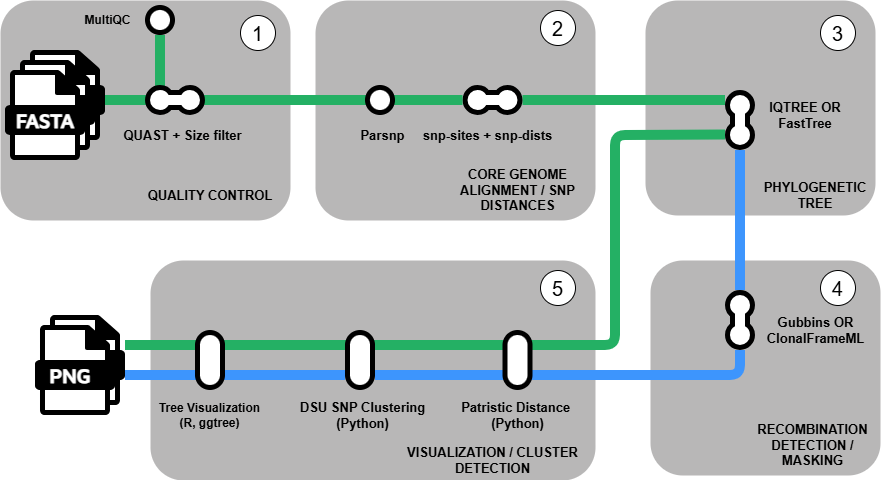
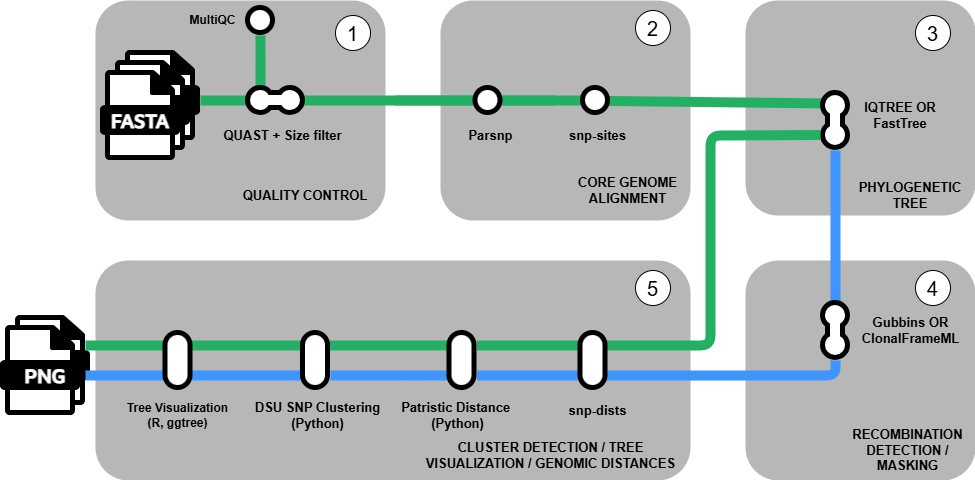
docs: updated README

diff --git a/README.md b/README.md
@@ -16,42 +16,47 @@
 
 ![Workflow Diagram](docs/img/metromap_workflow_diagram.png)
 
-**bacterial-genomics/assemblysnps** is a bioinformatics pipeline that ...
+**bacterial-genomics/assemblysnps** is a bioinformatics pipeline that generates a core genome alignment, genomic distances and a phlyogenetic tree, intended for bacterial outbreak surveillance.
 
-<!-- TODO nf-core:
-   Complete this sentence with a 2-3 sentence summary of what types of data the pipeline ingests, a brief overview of the
-   major pipeline sections and the types of output it produces. You're giving an overview to someone new
-   to nf-core here, in 15-20 seconds. For an example, see https://github.com/nf-core/rnaseq/blob/master/README.md#introduction
--->
+1. (Optional) QC FASTA assemblies with ([QUAST](https://quast.sourceforge.net/)) and reported with ([`MultiQC`](http://multiqc.info/)). This step can be skipped with `--skip_quast`.
 
-<!-- TODO nf-core: Include a figure that guides the user through the major workflow steps. Many nf-core
-     workflows use the "tube map" design for that. See https://nf-co.re/docs/guidelines/graphic_design/workflow_diagrams#examples for examples.   -->
-<!-- TODO nf-core: Fill in short bullet-pointed list of the default steps in the pipeline -->1. Read QC ([`FastQC`](https://www.bioinformatics.babraham.ac.uk/projects/fastqc/))2. Present QC for raw reads ([`MultiQC`](http://multiqc.info/))
+2. Core genome alignment with ([Parsnp](https://harvest.readthedocs.io/en/latest/content/parsnp.html)).
+
+3. Extract SNPs from core genome alignment with [snp-sites](https://sanger-pathogens.github.io/snp-sites/).
+
+4. Compute maximum likelihood tree with [IQTREE2](https://github.com/iqtree/iqtree2) or optionally [FastTree](https://github.com/morgannprice/fasttree) using the `--run_fasttree` parameter.
+
+5. (Optional) Detect and mask recombination loci with [Gubbins](https://nickjcroucher.github.io/gubbins/) or [ClonalFrameML](https://github.com/xavierdidelot/clonalframeml).
+
+6. Generate SNP distance matrices with [snp-dists]() and patristic distances from resulting trees with a [homebrew python script](bin/patristic_distance.py)
+
+7. Automatically annotate SNP clusters using a [homebrew script](bin/outbreak_detection.py) using the [Disjoint Set Union algorithm](https://en.wikipedia.org/wiki/Disjoint-set_data_structure) to iteratively aggregate genomes based on a SNP distance threshold, which may be set using the `--snp_threshold` parameter.
+
+8 Generate a phylogenetic tree graphic (`ggtree/tree.png`) using [ggtrree](https://github.com/YuLab-SMU/ggtree).
 
 ## Usage
 
+This pipeline was tested using Nextflow v25.10.4, and should be compatible with Nextflow v26.04.0 if the `NXF_SYNTAX_PARSER` environment variable is set to `v1`. **It has yet to adopt [strict syntax](https://docs.seqera.io/nextflow/strict-syntax)**.
+> `export NXF_SYNTAX_PARSER=v1`
+
 > [!NOTE]
 > If you are new to Nextflow and nf-core, please refer to [this page](https://nf-co.re/docs/usage/installation) on how to set-up Nextflow. Make sure to [test your setup](https://nf-co.re/docs/usage/introduction#how-to-run-a-pipeline) with `-profile test` before running the workflow on actual data.
-
-<!-- TODO nf-core: Describe the minimum required steps to execute the pipeline, e.g. how to prepare samplesheets.
-     Explain what rows and columns represent. For instance (please edit as appropriate):
 
 First, prepare a samplesheet with your input data that looks as follows:
 
 `samplesheet.csv`:
 
 ```csv
-sample,fastq_1,fastq_2
-CONTROL_REP1,AEG588A1_S1_L002_R1_001.fastq.gz,AEG588A1_S1_L002_R2_001.fastq.gz
+sample,fasta
+sampleA,sampleA.fasta
+sampleB,sampleB.fna.gz
 ```
 
-Each row represents a fastq file (single-end) or a pair of fastq files (paired end).
+> The following input FASTA file extensions are acceptable: `.fasta`, `.fna`, `.fa`, `.fsa`, `.fas`. Files may also be gzipped-compressed and have a `.gz` extension.
 
--->
+> [!NOTE] By default, FASTA files under 1000 bytes will be excluded from the analysis for quality control, a warning message will print to `.nextflow.log` if so. This feature can be modified with the `--min_fasta_size` parameter. This feature may change to minimum assembly length in future releases.
 
 Now, you can run the pipeline using:
-
-<!-- TODO nf-core: update the following command to include all required parameters for a minimal example -->
 
 ```bash
 nextflow run bacterial-genomics/assemblysnps \
@@ -59,17 +64,18 @@ nextflow run bacterial-genomics/assemblysnps \
    --input samplesheet.csv \
    --outdir <OUTDIR>
 ```
+> [!NOTE] At the moment, some of the modules only have a Singularity container defined.
 
 > [!WARNING]
 > Please provide pipeline parameters via the CLI or Nextflow `-params-file` option. Custom config files including those provided by the `-c` Nextflow option can be used to provide any configuration _**except for parameters**_; see [docs](https://nf-co.re/docs/usage/getting_started/configuration#custom-configuration-files).
 
 ## Credits
 
-bacterial-genomics/assemblysnps was originally written by @Ethan-Hetrick,@chrisgulvik.
+bacterial-genomics/assemblysnps was originally written by @Ethan-Hetrick,@chrisgulvik, **[TODO: insert other authors here]**
 
 We thank the following people for their extensive assistance in the development of this pipeline:
 
-<!-- TODO nf-core: If applicable, make list of people who have also contributed -->
+**[TODO: insert other contributors here]**
 
 ## Contributions and Support
 
